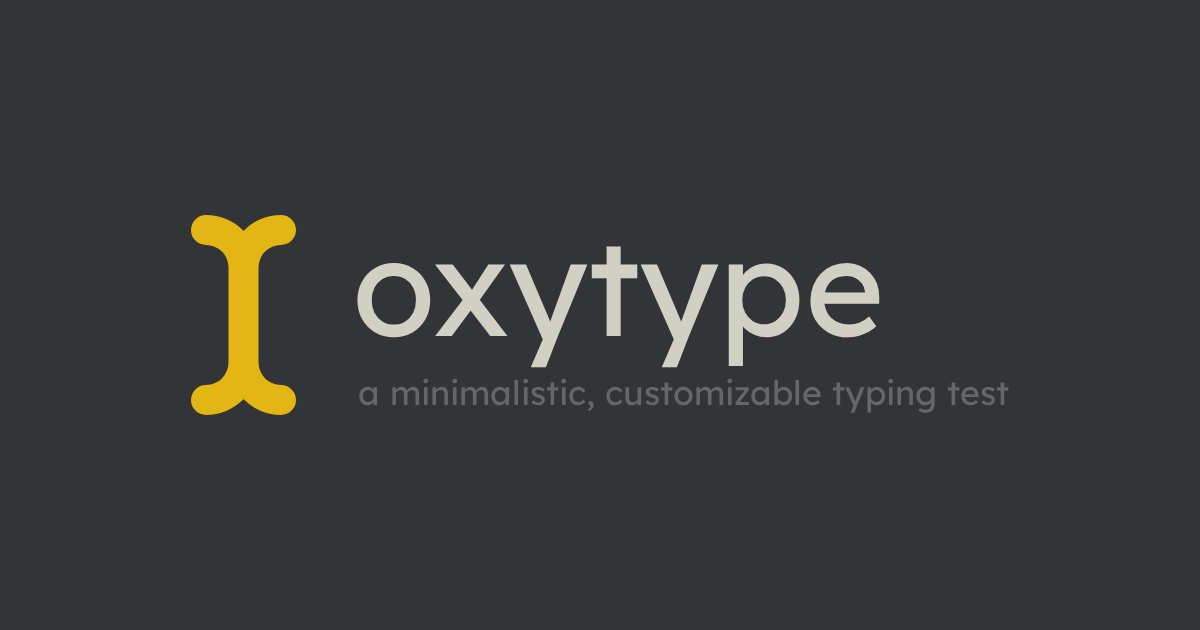
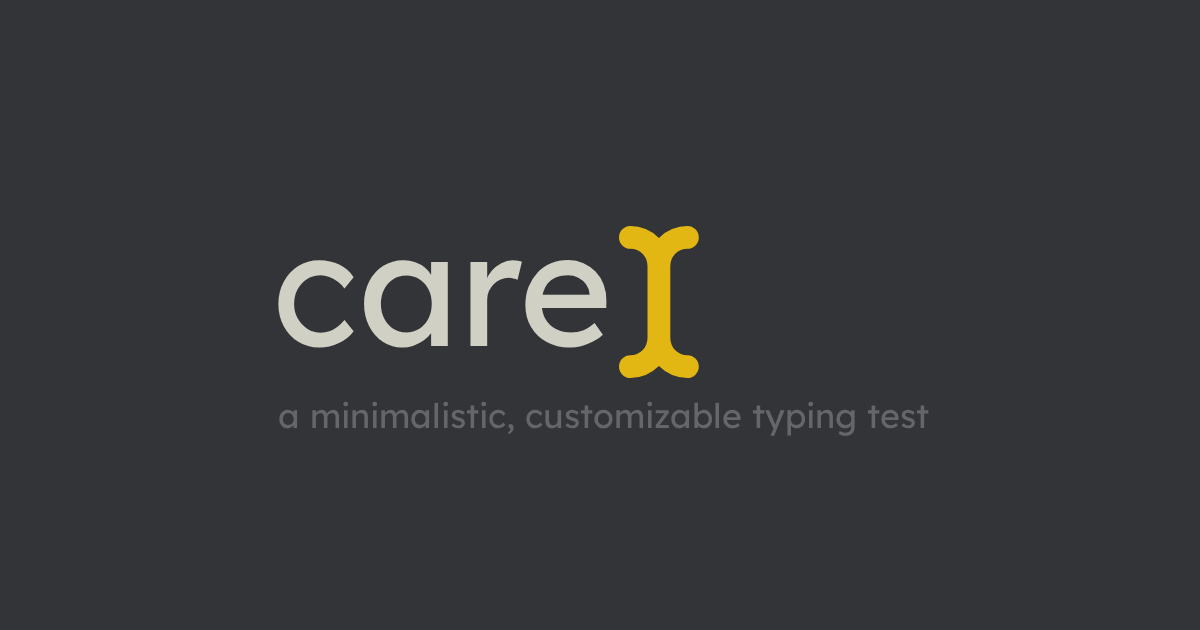
feat(brand): regenerate the social card with the caret wordmark

Changed region(s): [[0.1542, 0.3317, 0.8633, 0.6937]]

diff --git a/frontend/scripts/generate-brand-icons.ts b/frontend/scripts/generate-brand-icons.ts
@@ -9,8 +9,8 @@ import { chromium } from "playwright";
 import {
   caretBrandColors,
   caretIconSvg,
+  caretMarkInkViewBox,
   caretMarkPath,
-  caretMarkViewBox,
 } from "../src/components/brand/caret-icon";
 
 const statics = new URL("../static/", import.meta.url);
@@ -46,14 +46,14 @@ const socialCard = `<!doctype html>
   @font-face { font-family: Lexend; src: url(data:font/woff2;base64,${lexend}); }
   body { margin: 0; width: 1200px; height: 630px; display: grid; place-items: center;
     background: ${caretBrandColors.bg}; font-family: Lexend; }
-  main { display: flex; align-items: center; gap: 56px; }
-  svg { width: 200px; height: 200px; fill: ${caretBrandColors.main}; }
-  h1 { margin: 0; font-weight: 400; font-size: 136px; line-height: 1; color: #d1d0c5; }
-  p { margin: 18px 0 0 6px; font-size: 34px; color: #646669; }
+  h1 { display: flex; align-items: baseline; margin: 0; font-weight: 400; font-size: 160px;
+    line-height: 1; color: #d1d0c5; }
+  svg { position: relative; top: 0.2em; height: 0.95em; margin-left: 0.04em; fill: ${caretBrandColors.main}; }
+  p { margin: 28px 0 0 6px; font-size: 34px; color: #646669; }
 </style>
 <main>
-  <svg viewBox="${caretMarkViewBox}"><path d="${caretMarkPath}"/></svg>
-  <div><h1>caret</h1><p>a minimalistic, customizable typing test</p></div>
+  <h1>care<svg viewBox="${caretMarkInkViewBox}"><path d="${caretMarkPath}"/></svg></h1>
+  <p>a minimalistic, customizable typing test</p>
 </main>`;
 
 async function main(): Promise<void> {
@@ -71,17 +71,6 @@ async function main(): Promise<void> {
     }
     await page.setViewportSize({ width: 1200, height: 630 });
     await page.setContent(socialCard);
-    // Crop the mark to its ink so the wordmark spacing follows its shape.
-    await page.evaluate(() => {
-      const svg = document.querySelector("svg");
-      const box = svg?.getBBox();
-      if (svg === null || box === undefined) return;
-      svg.setAttribute(
-        "viewBox",
-        `${box.x} ${box.y} ${box.width} ${box.height}`,
-      );
-      svg.style.width = `${(box.width / box.height) * 200}px`;
-    });
     await page.evaluate(async () => document.fonts.ready);
     await page.screenshot({ path: out("images/og/caret.png").pathname });
   } finally {
